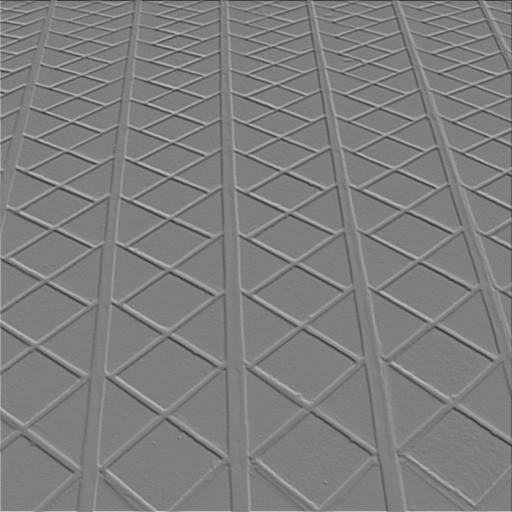
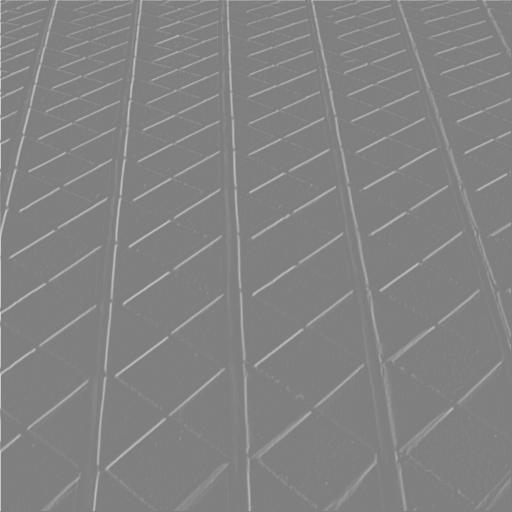
deleted double cast

diff --git a/4/DBV_4a_Ex_Binomial_Ableitung_Laplace_Gruppe_08.m b/4/DBV_4a_Ex_Binomial_Ableitung_Laplace_Gruppe_08.m
@@ -24,20 +24,20 @@ addpath( '../allg/Bilder' );
 
 %--------------------------------------------------------------------------
 %% Bild einlesen:
-g = imread( 'Tile-gray.pgm' );
+g = imread( 'Bilder/Tile-gray.pgm' );
 figure( 1 ), imshow( g );
 
 %--------------------------------------------------------------------------
 %% Ableitung in x-Richtung:
 % Leiten Sie das Bild in x-Richtung mit einem 3x3-Binomialfilter ab.
 % Dazu steht die Funktion Binomialfilter() bereit.
-[hdx, nfactor] = Binomialfilter( [3,0,3,1], 0 );
-gdx = nfactor .* imfilter( double( g ), double( hdx ) );
+hdx = Binomialfilter( [3,0,3,1], 1 );
+gdx = imfilter( g, hdx );
 
 % Stellen Sie das abgeleitete Bild mit dem Nullpunkt beim mittleren
 % Grauwert der Grauwertskala dar und speichern es ab:
-figure( 2 ), imshow( uint8( gdx + 127 ) );
-imwrite( uint8( gdx + 127 ), 'Ergebnisse/Tile-gray_dx.jpg', 'jpg' );
+figure( 2 ), imshow( gdx + 127 );
+imwrite( gdx + 127, 'Ergebnisse/Tile-gray_dx.jpg', 'jpg' );
 
 % Frage: Beschreiben Sie das Ergebnis bzgl. Kanten und Fl�chen:
 % A: Kanten (Schwarze bzw. Weiße) im Ableitungsbild entsprechen
@@ -50,16 +50,16 @@ imwrite( uint8( gdx + 127 ), 'Ergebnisse/Tile-gray_dx.jpg', 'jpg' );
 % Leiten Sie das Bild in Richtung des Vektors n=(x,y)'=(2,1)', also etwa
 % in 26-Grad-Richtung ab:
 % Verwenden Sie dabei 3x3-Binomialfilter:
-phi = atan2( -2,1 );
-hdx = Binomialfilter( [3,0,3,1], 0 );
-[hdy, nfactor] = Binomialfilter( [3,1,3,0], 0 );
+phi = atan2( 1,2 );
+hdx = Binomialfilter( [3,0,3,1], 1 );
+hdy = Binomialfilter( [3,1,3,0], 1 );
 hdn = cos( phi ) .* hdx + sin( phi ) .* hdy;
-gdn = nfactor .* imfilter( double( g ), double( hdn ) );
+gdn = imfilter( g, hdn);
 
 % Stellen Sie das abgeleitete Bild mit dem Nullpunkt beim mittleren
 % Grauwert der Grauwertskala dar und speichern es ab:
-figure( 3 ), imshow( uint8( gdn + 127 ) );
-imwrite( uint8( gdn + 127 ), 'Ergebnisse/Tile-gray_dn.jpg', 'jpg' );
+figure( 3 ), imshow( gdn + 127 );
+imwrite( gdn + 127, 'Ergebnisse/Tile-gray_dn.jpg', 'jpg' );
 
 % Frage: Beschreiben Sie den Unterschied im Ergebnis zur Ableitung 
 %        in x-Richtung:
@@ -73,15 +73,15 @@ imwrite( uint8( gdn + 127 ), 'Ergebnisse/Tile-gray_dn.jpg', 'jpg' );
 %% Laplace mit Binomialfilter:
 % Erzeugen Sie den 7x7-Binomial-Laplace-Filter. Wie lautet der Operator?
 % Filtern Sie das Bild damit:
-hblabx = Binomialfilter( [7,2,7,0], 0 );
-[hblaby, nfactor] = Binomialfilter( [7,0,7,2], 0 );
+hblabx = Binomialfilter( [7,2,7,0], 1 );
+hblaby = Binomialfilter( [7,0,7,2], 1 );
 hblap = 0.5 .* ( hblabx + hblaby );
-gblap = nfactor .* imfilter( double( g ), double( hblap ) );
+gblap = imfilter( g, hblap );
 
 % Stellen Sie das abgeleitete Bild mit dem Nullpunkt beim mittleren
 % Grauwert der Grauwertskala dar und speichern es ab:
-figure( 4 ), imshow( uint8( gblap + 127 ) );
-imwrite( uint8( gblap + 127 ), 'Ergebnisse/Tile-gray_binlaplace.jpg', 'jpg' );
+figure( 4 ), imshow( gblap + 127 );
+imwrite( gblap + 127, 'Ergebnisse/Tile-gray_binlaplace.jpg', 'jpg' );
 
 % Frage: Beschreiben Sie den Unterschied im Ergebnis zur Ableitung 
 %        in x-Richtung:
@@ -121,9 +121,9 @@ sizex = round( 1 / ( ( freqfacx * 0.5 * size( g,2 ) ) * dux ) )
 sizey = round( 1 / ( ( freqfacy * 0.5 * size( g,1 ) ) * duy ) )
 
 % Filterung des Bildes mit einem entsprechenden Binominalfilter
-[h, nfactor] = Binomialfilter( [sizex,0,sizey,0], 0 );
-gsam = nfactor .* imfilter( double( g ), double( h ) );
-figure( 6 ), imshow( uint8( gsam ) );
+h = Binomialfilter( [sizex,0,sizey,0], 1 );
+gsam = imfilter( g, h );
+figure( 6 ), imshow( gsam );
 
 % Berechnung des gefilterten Betragsspektrums
 fg = fftshift( fft2( gsam ) );

diff --git a/4/DBV_4b_Ex_Punkttransf_Histogramm_Gruppe_08.m b/4/DBV_4b_Ex_Punkttransf_Histogramm_Gruppe_08.m
@@ -91,8 +91,10 @@ saveas( fig2, 'Ergebnisse/g4-egalisiert_histo.jpg' );
 % Bilden Sie die oberste (Bit 7) und die vierte (Bit 3) Bitebene 
 % des Bildes g3, f�r das Sie den Kontrast angehoben haben:
 % Stellen Sie diese geeignet dar:
-g5a = ???
-g5b = ???
+g5a = bitand( g3, 2^7 );
+g5a(g5a > 0) = 255;
+g5b = bitand( g3, 2^3 );
+g5b(g5b > 0) = 255;
 
 figure(1); imshow( g5a );
 figure(2); imshow( g5b );
